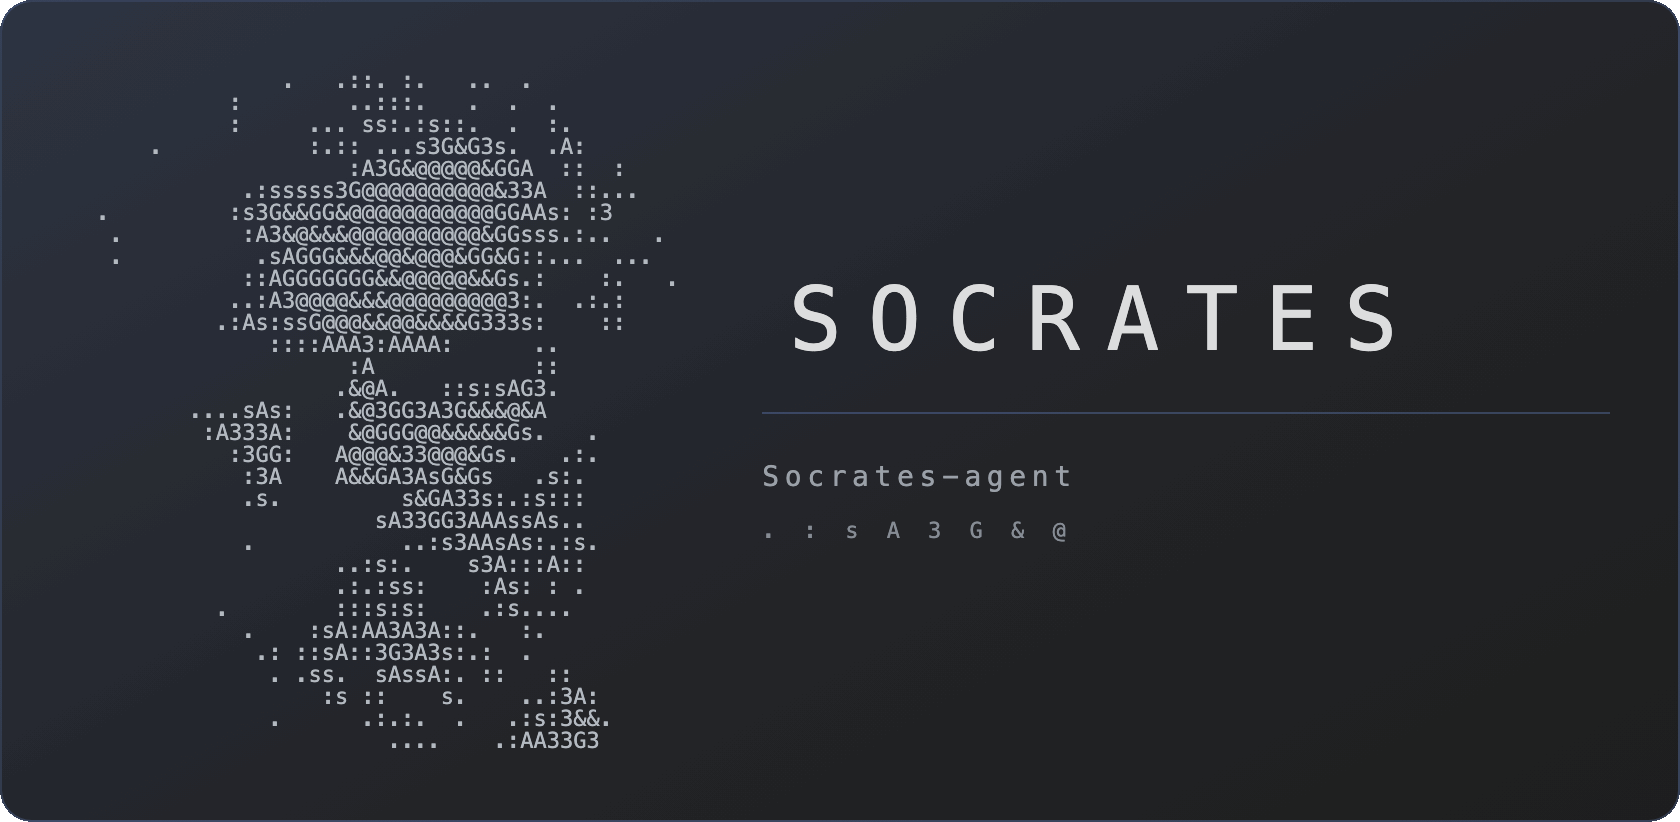
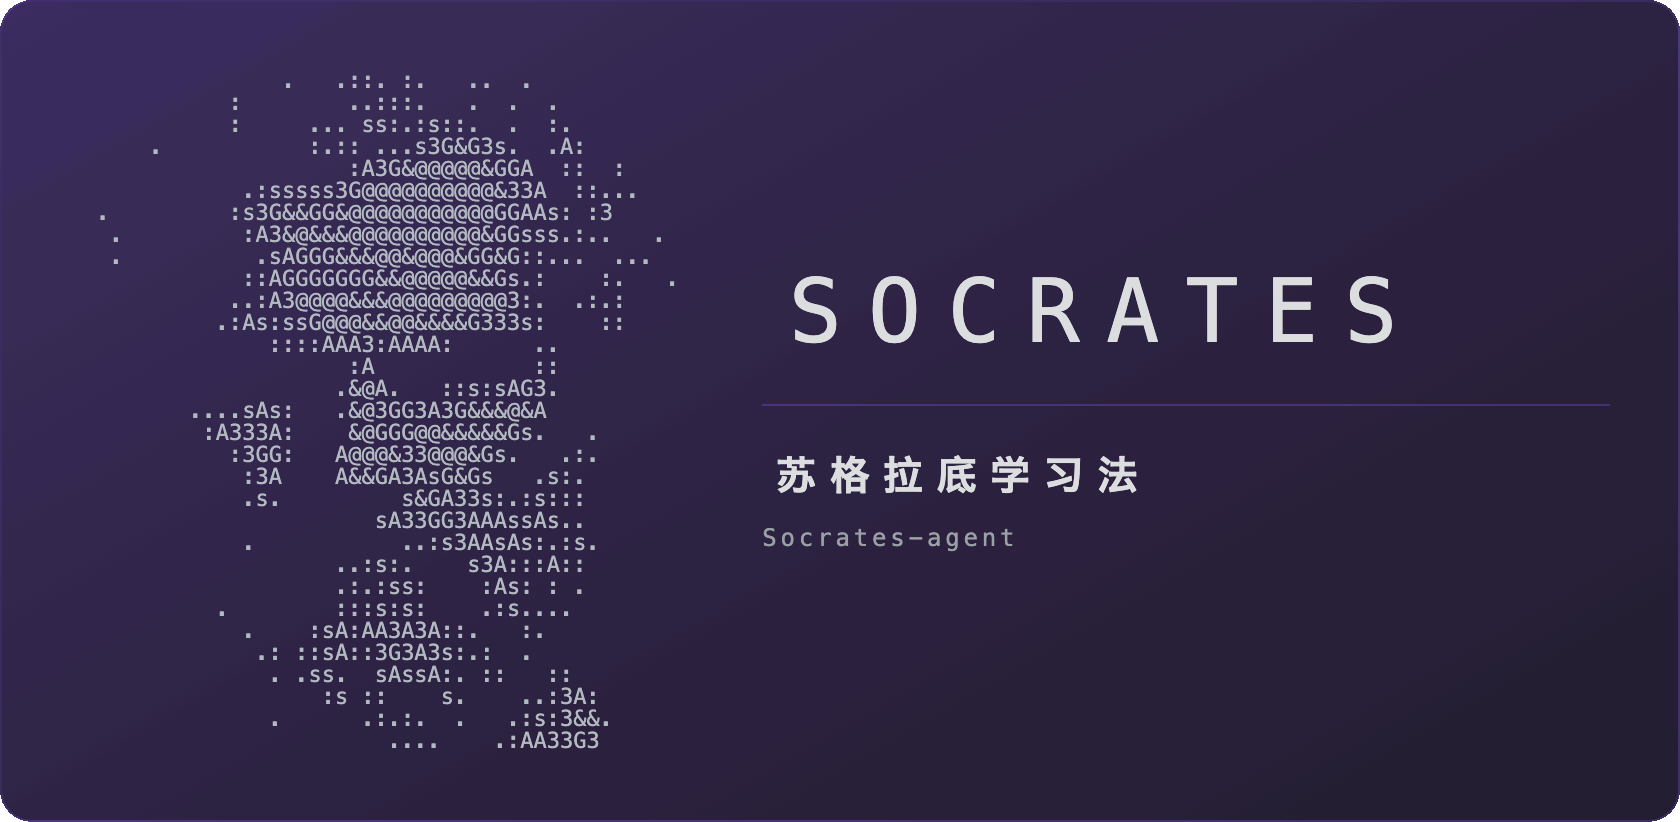
docs(v0.16.5): Hero 密度阶换成标语，底色改全程紫
右栏改成「字标 → 分隔线 → 标语 → 副题」，把 . : s A 3 G & @ 那行画法说明
换掉：标语取插件 i18n 自己那一条（zh.ts:168 / en.ts:128），层级按
styles.css:613-633 摆正——插件里标语本就在副题之上、600 字重、0.34em 字距。

底色仍走插件那条 color-mix 公式，只把兑进去的底从中性灰 #1E1E1E 换成
染紫的 #241E30、比例 16%/4% 提到 24%/7%，尾段不再褪成灰。ACCENT #8A5CF6
是从 docs/img/shot-01-splash.png 量出来的（出现 260 次，「问」按钮那个紫），
和 §2 起那批界面截图同一色系。

标语进图就带了语言，于是中英各出一张，只差那一句：
docs/img/hero.png / docs/img/hero.en.png。render-hero.py 加 --tint / --tagline，
默认值即仓里这两张的参数。

实测：两张都 1680×822（840×411 的整 2 倍）、79.1/80.8 KB、连跑两次 md5 一致、
肖像区对比度 7.64:1、右栏 11.80:1、四角 alpha 0。rdcheck 全绿，quotecheck
对上 34 条不变。

本次只暂存 hero 那一段：README 里另有别的会话在写的 §1 散文在制品，没有裹进来。

diff --git a/docs/v0.16.5-Hero标语与紫底.md b/docs/v0.16.5-Hero标语与紫底.md
@@ -1,0 +1,62 @@
+# v0.16.5 — Hero 换成标语，底色改紫
+
+> 日期：2026-08-22。只动 `README.md` / `README.en.md` / `docs/` / `scripts/render-hero.py`。
+> `src/` `pen/` `styles.css` `manifest.json` `versions.json` 一行不动，不发 Release。
+> 插件 semver 仍是 `0.13.1`。
+
+## 病在哪
+
+Hero 卡片右栏原来是「字标 → 分隔线 → 副题 `Socrates-agent` → 密度阶 `. : s A 3 G & @`」。
+两处不对：密度阶是**画法说明**，对着 README 的人不需要知道这幅画用了哪八个字符；而底色
+是照搬插件的 `color-mix(accent 16%, #1E1E1E)`，尾段褪成中性灰，跟 §2 起那批界面截图里
+一水儿的紫不是一个色系。
+
+层级也是反的。插件里 `styles.css:613-633` 明写标语在副题**之上**、`font-weight: 600`、
+`letter-spacing: 0.34em`，副题只有 10px 且用 `--text-faint`；hero 却把最不重要的密度阶
+放在最下面当收尾，等于把插件自己的主次颠倒过来复制了一遍。
+
+## 改成什么
+
+**密度阶换成标语。** 文案不另起炉灶，直接取插件 i18n 里那一条：中文 `src/i18n/zh.ts:168`
+的 `苏格拉底学习法`，英文 `src/i18n/en.ts:128` 的 `The Socratic Method`。右栏改成
+「字标 → 分隔线 → 标语 → 副题」，字号、字重、字距按 `styles.css` 那两条规则等比放大到
+hero 的 20px / 12px。
+
+**底色改成全程紫。** `ACCENT` 不是拍脑袋调的，是从 `docs/img/shot-01-splash.png` 里量出来
+的最常见饱和紫 `#8A5CF6`（出现 260 次，就是「问」按钮和状态点的颜色），hero 和界面截图
+因此是同一个色系。插件那条 `color-mix` 公式原样保留，只把兑进去的底色从中性灰 `#1E1E1E`
+换成染过紫的 `#241E30`，比例从 16%/4% 提到 24%/7%：
+
+| 档位 | 渐变 | 说明 |
+| --- | --- | --- |
+| `violet-deep`（默认，仓里这张） | `#3C2D60 → #2B223E → #241E30` | 全程紫，尾段不褪灰 |
+| `violet` | `#33284B → #262032 → #221E2A` | 同色系淡一档 |
+| `faithful` | `#2F2841 → #222027 → #1E1E1E` | 照搬插件公式，前紫后灰 |
+
+边框 `rgba(138,92,246,0.22)`、分隔线 `rgba(138,92,246,0.30)` 跟着 `ACCENT` 走。
+
+**中英各一张图。** 上一版 hero 里刻意一个汉字都没有，为的是中英共用一个文件；这一版
+标语进了图，共用就意味着英文 README 顶上顶着一行中文。所以出两张：`docs/img/hero.png`
+和 `docs/img/hero.en.png`，只差那句标语，其余逐像素同源。两份 README 的 `<img>` 注释里
+写清楚**改了画要重跑两次**，命令逐字可抄。
+
+`scripts/render-hero.py` 相应加了 `--tint` 和 `--tagline` 两个参数，默认值就是仓里这两张
+的参数，裸跑 `python scripts/render-hero.py` 出来的必须是 `docs/img/hero.png` 本身。
+
+## 验证（全部实跑）
+
+| 项 | 结果 |
+| --- | --- |
+| 尺寸 | `1680×822` = `840×411` 的整 2 倍，两张都是 |
+| 体积 | 79.1 KB / 80.8 KB，预算 ≤ 120 KB |
+| 可复现 | 连跑两次 `md5` 都是 `fb0469e503e70410f0bbc7bcb0f3d056` |
+| 对比度 | 肖像区 7.64:1、右栏 11.80:1，门槛 ≥ 6.0 |
+| 圆角 | 四角 `alpha == 0`，浅色/深色主题都不带底 |
+| 链接锚点 | `rdcheck.py` 全绿；图片集按 hero 中英一对归一后仍逐张对等 |
+| 引文 | `quotecheck.py` 对上 34 条不变（本次没碰任何 `>` 引用行） |
+
+## 注意
+
+改这一版时 README 里另有一份**别的会话正在写的 §1 散文改动**（后来的 v0.16.4）。
+本次提交用索引单独暂存 hero 那一段，没有把那份在制品裹进来——`git add README.md`
+在这种时候会连人家的活一起提交。

diff --git a/README.en.md b/README.en.md
@@ -2,9 +2,12 @@
 
 <!-- width=840 is the card's real CSS width from scripts/render-hero.py; it renders 1:1.
      The five drawio figures in the body use width=100%; this one deliberately does not.
-     After editing src/logo.ts, re-run: python scripts/render-hero.py -->
-<img src="docs/img/hero.png" width="840"
-     alt="Socrates — a bust of Socrates drawn with the 8-step density ramp . : s A 3 G &amp; @, beside the SOCRATES wordmark and the subtitle Socrates-agent">
+     One card per language, differing only in the tagline. After editing src/logo.ts,
+     **re-render both**:
+       python scripts/render-hero.py
+       python scripts/render-hero.py --tagline "The Socratic Method" --out docs/img/hero.en.png -->
+<img src="docs/img/hero.en.png" width="840"
+     alt="A violet gradient card: on the left, a bust of Socrates drawn with the density characters . : s A 3 G &amp; @; on the right, the SOCRATES wordmark, the tagline The Socratic Method and the subtitle Socrates-agent">
 
 **Highlight a passage in your own notes, and get questioned**
 

diff --git a/README.md b/README.md
@@ -2,9 +2,11 @@
 
 <!-- width=840 是 scripts/render-hero.py 出图时的实际 CSS 宽度，在 GitHub 上 1:1 呈现。
      正文里那五张 drawio 图用 width=100%，这里不用，是有意的。
-     改了 src/logo.ts 的画之后重跑：python scripts/render-hero.py -->
+     中英各一张，只差卡片上那句标语。改了 src/logo.ts 的画之后**两张都要重跑**：
+       python scripts/render-hero.py
+       python scripts/render-hero.py --tagline "The Socratic Method" --out docs/img/hero.en.png -->
 <img src="docs/img/hero.png" width="840"
-     alt="Socrates —— 用 . : s A 3 G &amp; @ 这套 8 级密度字符拼出的苏格拉底半身像，旁边是 SOCRATES 标题和副题 Socrates-agent">
+     alt="紫色渐变卡片：左边是用 . : s A 3 G &amp; @ 这套密度字符拼出的苏格拉底半身像，右边是 SOCRATES 字标、标语「苏格拉底学习法」和副题 Socrates-agent">
 
 **苏格拉底学习法，深度学习任何一本教材**
 
